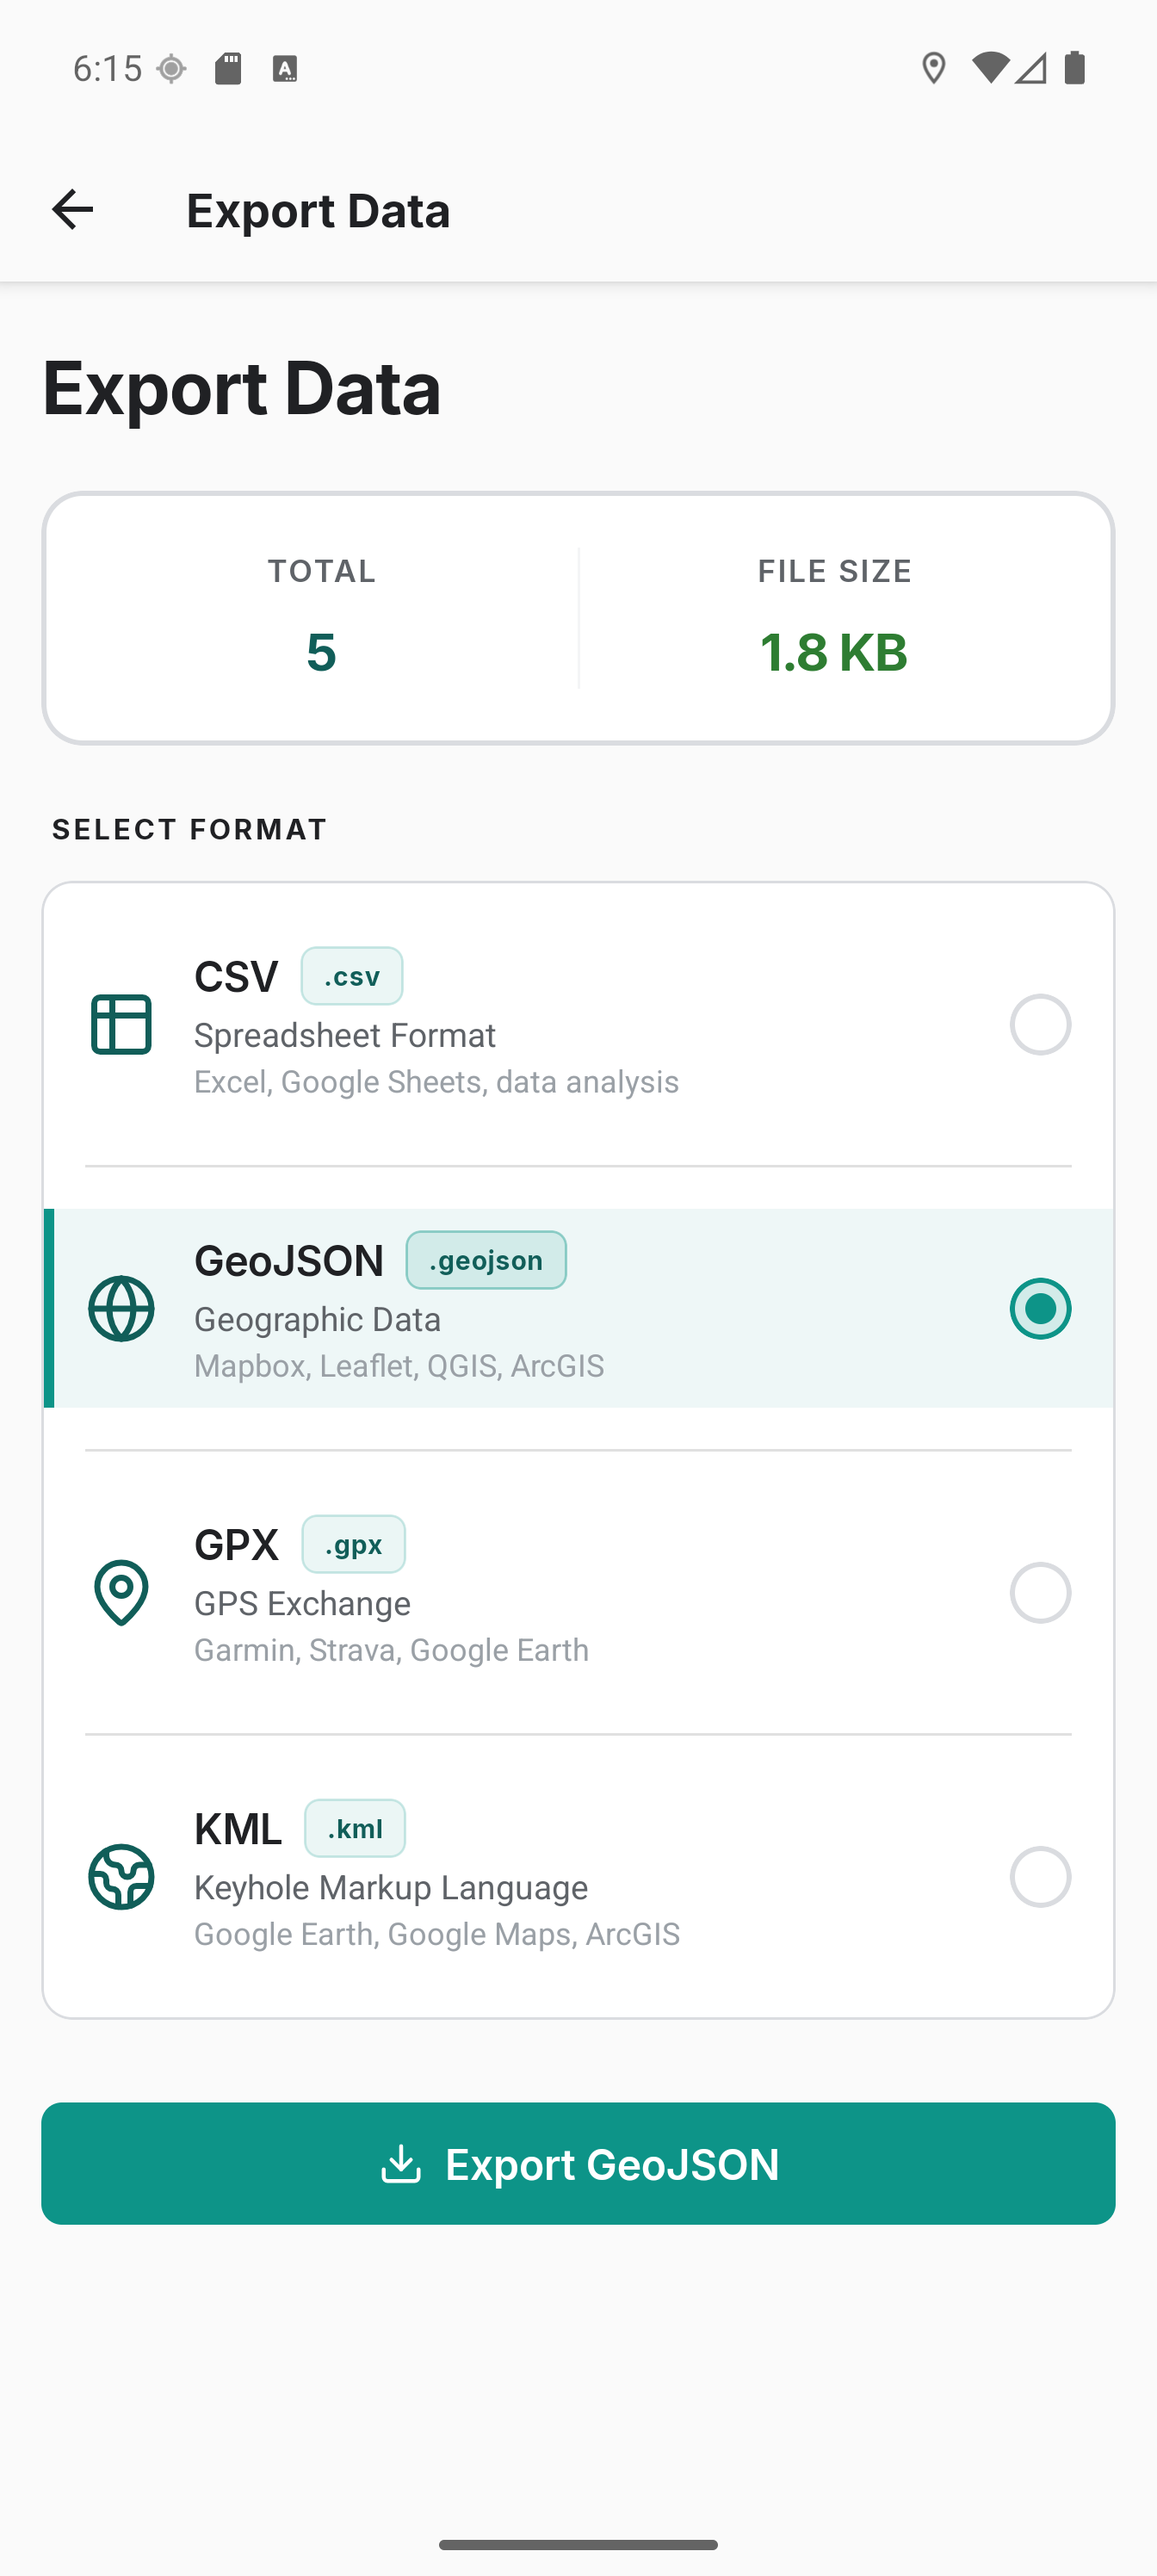
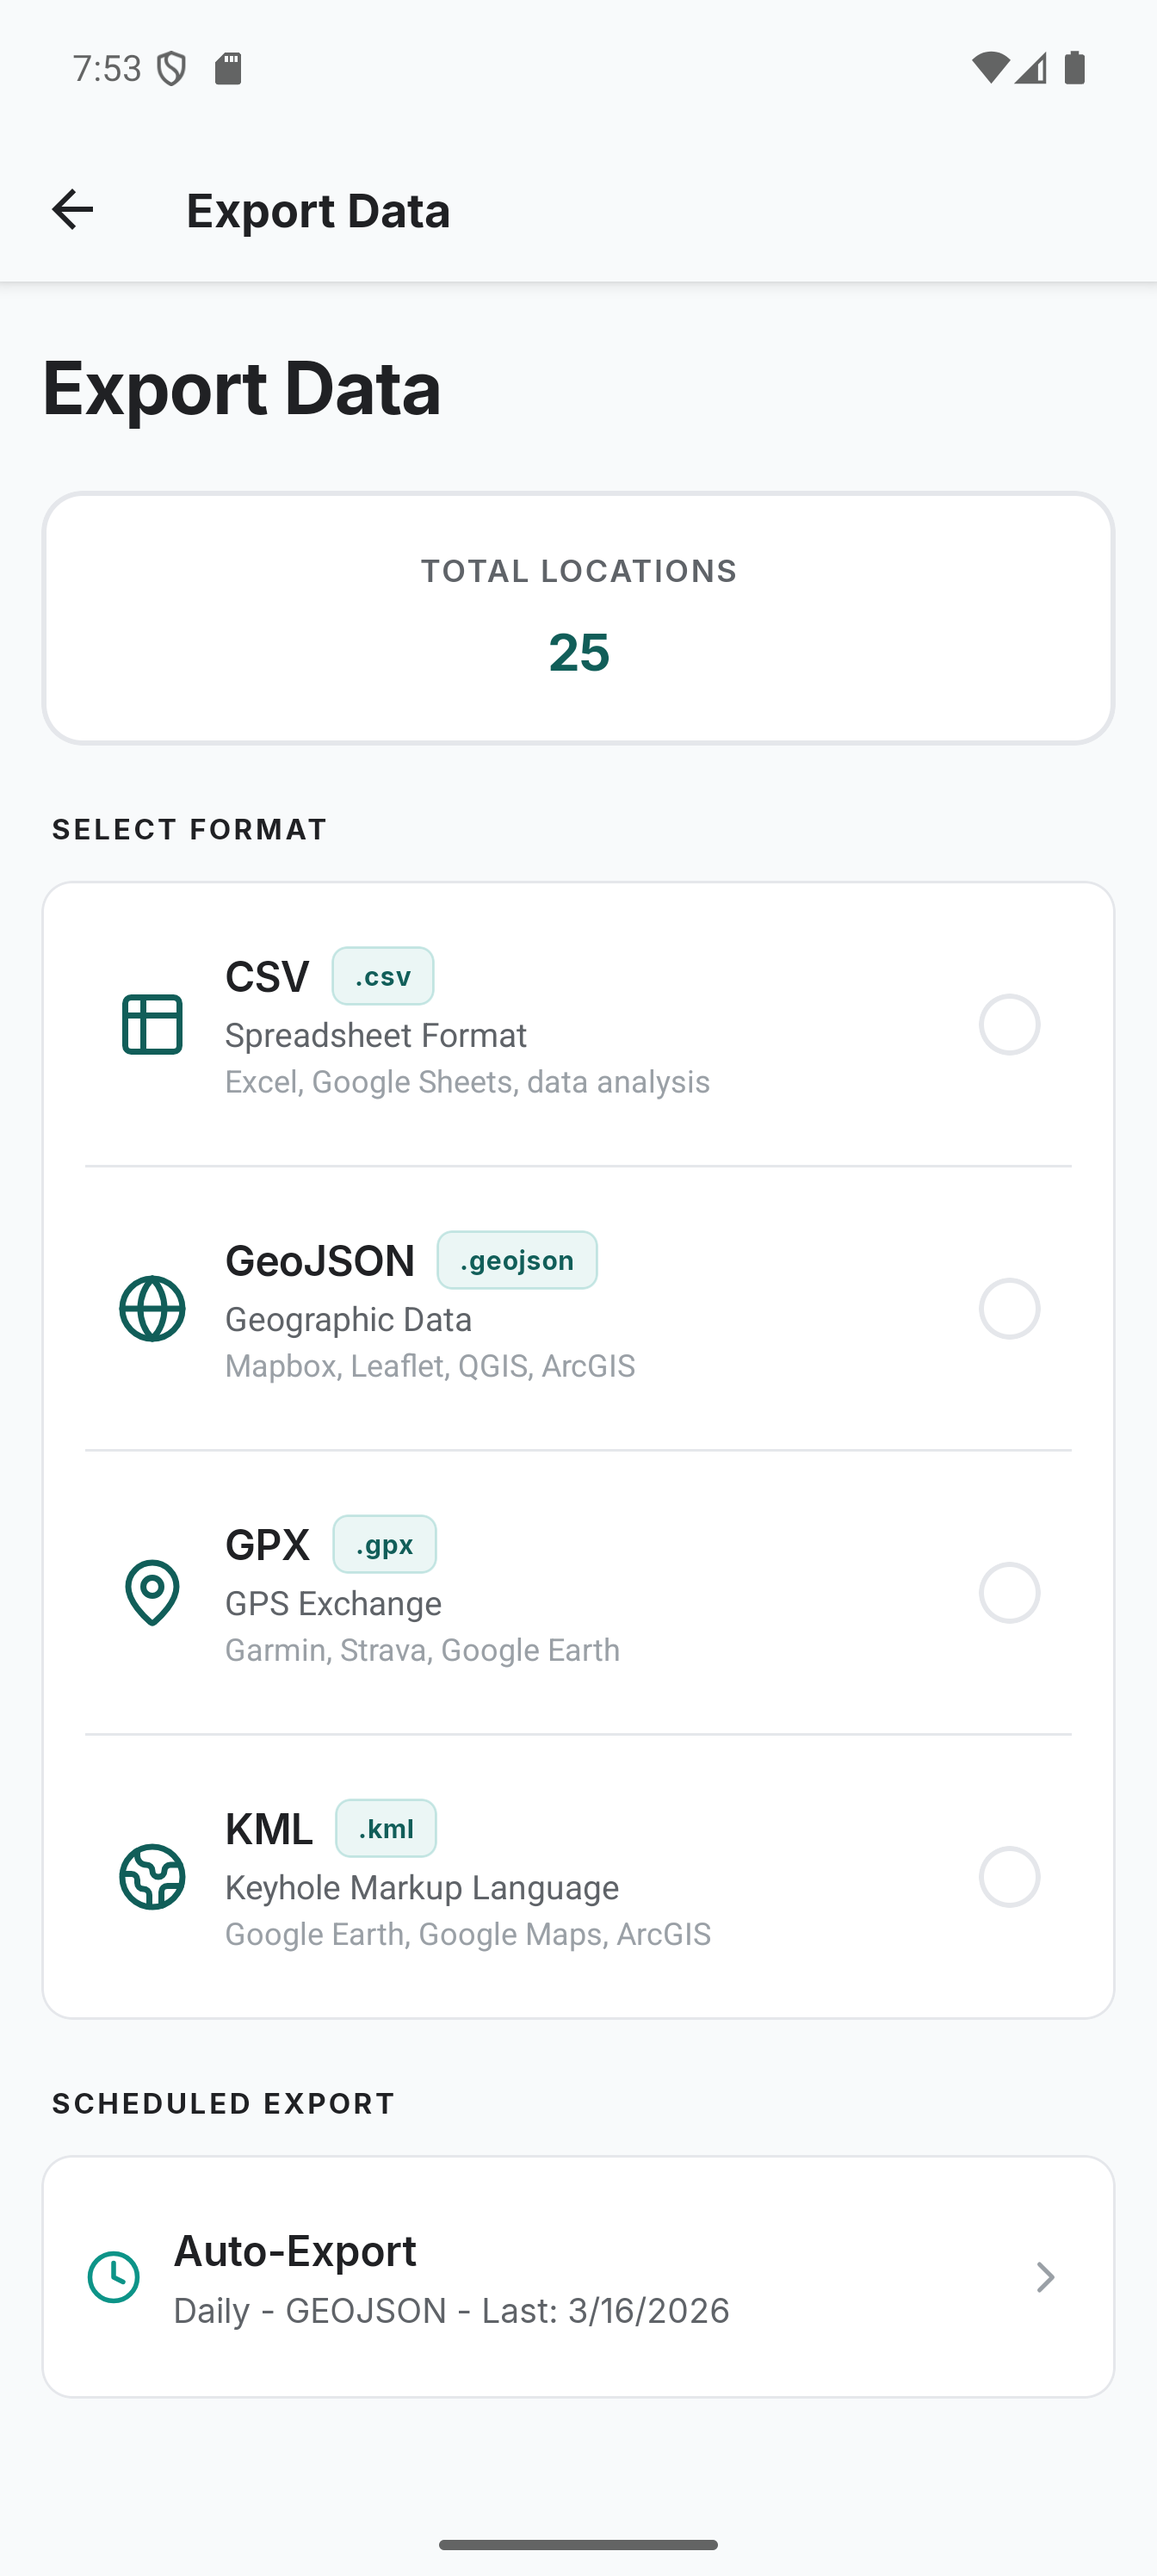
docs: update features list and add Auto-Export screen to introduction

diff --git a/apps/docs/docs/introduction.md b/apps/docs/docs/introduction.md
@@ -9,22 +9,23 @@ Colota is a self-hosted GPS tracking app for Android. It sends your location to 
 
 ## Key Features
 
-- **Self-Hosted** - Send location data to your own server via REST API. Works with Dawarich, OwnTracks, PhoneTrack, Reitti, Traccar, or any custom backend.
-- **Privacy First** - No analytics, no telemetry, no third-party SDKs, no cloud services. Open source under AGPL-3.0.
-- **Works Offline** - Works without a server. Store location history locally and export as CSV, GeoJSON, GPX, or KML.
-- **Background Tracking** - Foreground service, auto-start on boot, retry with exponential backoff, battery-critical shutdown, automatic GPS pause when stationary.
-- **Geofencing** - Create pause zones where location recording automatically stops.
-- **Tracking Profiles** - Automatically switch GPS interval, distance filter, and sync settings based on conditions like charging, car mode, or speed thresholds.
-- **Sync Modes** - Instant, batch, or offline. Wi-Fi only sync, configurable intervals with automatic retry.
-- **Data Export** - Export location history in CSV, GeoJSON, GPX, or KML formats.
-- **Authentication** - Basic Auth, Bearer Token, or custom HTTP headers with AES-256-GCM encrypted storage.
-- **Quick Setup** - Configure devices instantly via `colota://setup` deep links or QR codes. No manual typing required.
+- **Self-Hosted** - Send location data to your own server. Works with Dawarich, GeoPulse, OwnTracks, PhoneTrack, Reitti, Traccar, Home Assistant or any custom backend.
+- **Privacy First** - No analytics, no telemetry, no third-party SDKs. Open source (AGPL-3.0).
+- **Works Offline** - Fully functional without a server. Export as CSV, GeoJSON, GPX, or KML.
+- **Scheduled Export** - Automatic daily, weekly or monthly exports to a local directory with file retention management.
+- **Location History** - View daily summaries, trip segmentation, calendar with activity dots and per-trip export.
+- **Reliable Tracking** - Foreground service, auto-start on boot, exponential backoff retry and automatic GPS pause when stationary.
+- **Geofencing** - Pause zones that automatically stop recording locations.
+- **Tracking Profiles** - Automatically adjust GPS interval, distance filter and sync settings based on conditions like charging, car mode or speed.
+- **Flexible Sync** - Instant, batch, Wi-Fi only or offline modes.
 - **Display Settings** - Choose between metric and imperial units, 12h or 24h time format. Auto-detected from device locale on first use.
+- **Quick Setup** - Configure devices via `colota://setup` deep links or QR codes.
+- **Authentication** - Basic Auth, Bearer Token or custom headers with AES-256-GCM encryption.
 - **Dark Mode** - Full light and dark theme support.
 
 ## App Screens
 
-Colota has fourteen screens, each focused on a specific task:
+Colota has fifteen screens, each focused on a specific task:
 
 | Screen | Purpose |
 | --- | --- |
@@ -39,6 +40,7 @@ Colota has fourteen screens, each focused on a specific task:
 | **Trip Detail** | Full trip view with dedicated map, stats grid (distance, duration, avg speed, elevation), speed and elevation profile charts, and export |
 | **Location Summary** | Aggregated stats (total distance, trips, active days, avg distance) for selectable periods with daily breakdown and tap-to-inspect navigation |
 | **Export Data** | Export tracked locations as CSV, GeoJSON, GPX, or KML |
+| **Auto-Export** | Configure scheduled exports: format, directory, frequency, export range, and file retention |
 | **Data Management** | Clear sent history, delete old data, vacuum the database |
 | **Setup Import** | Confirmation screen for deep link configuration imports (`colota://setup`) |
 | **About** | App version, device info, links to repository and privacy policy |

diff --git a/README.md b/README.md
@@ -14,17 +14,19 @@ Colota sends your location to your own server over HTTP(S). It works offline, su
 
 ## Features
 
-- **Self-Hosted** - Send location data to your own server. Works with GeoPulse, Dawarich, OwnTracks, PhoneTrack, Reitti, Traccar, Home Assistant, or any custom backend.
+- **Self-Hosted** - Send location data to your own server. Works with Dawarich, GeoPulse, OwnTracks, PhoneTrack, Reitti, Traccar, Home Assistant or any custom backend.
 - **Privacy First** - No analytics, no telemetry, no third-party SDKs. Open source (AGPL-3.0).
-- **Works Offline** - Fully functional without a server. Export as CSV, GeoJSON, GPX, or KML.
-- **Scheduled Export** - Automatic daily, weekly, or monthly exports to a local directory with file retention management.
-- **Location History** - View daily summaries, trip segmentation, calendar with activity dots, and per-trip export.
-- **Reliable Tracking** - Foreground service, auto-start on boot, exponential backoff retry.
+- **Works Offline** - Fully functional without a server. Export as CSV, GeoJSON, GPX or KML.
+- **Scheduled Export** - Automatic daily, weekly or monthly exports to a local directory with file retention management.
+- **Location History** - View daily summaries, trip segmentation, calendar with activity dots and per-trip export.
+- **Reliable Tracking** - Foreground service, auto-start on boot, exponential backoff retry and automatic GPS pause when stationary.
 - **Geofencing** - Pause zones that automatically stop recording locations.
-- **Tracking Profiles** - Automatically adjust GPS interval, distance filter, and sync settings based on conditions like charging, car mode, or speed.
-- **Flexible Sync** - Instant, batch, Wi-Fi only, or offline modes.
+- **Tracking Profiles** - Automatically adjust GPS interval, distance filter and sync settings based on conditions like charging, car mode or speed.
+- **Flexible Sync** - Instant, batch, Wi-Fi only or offline modes.
+- **Display Settings** - Choose between metric and imperial units, 12h or 24h time format. Auto-detected from device locale on first use.
 - **Quick Setup** - Configure devices via `colota://setup` deep links or QR codes.
-- **Authentication** - Basic Auth, Bearer Token, or custom headers with AES-256-GCM encryption.
+- **Authentication** - Basic Auth, Bearer Token or custom headers with AES-256-GCM encryption.
+- **Dark Mode** - Full light and dark theme support.
 
 ## Screenshots
 
